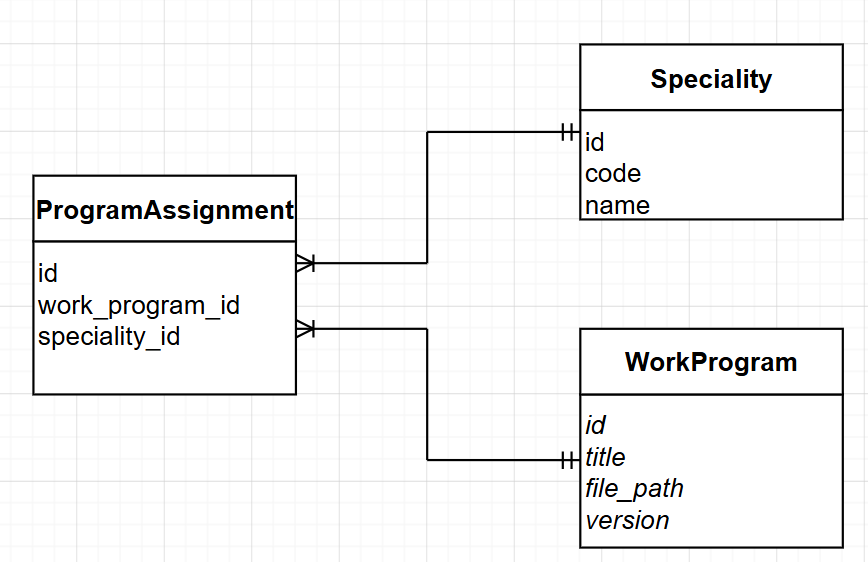
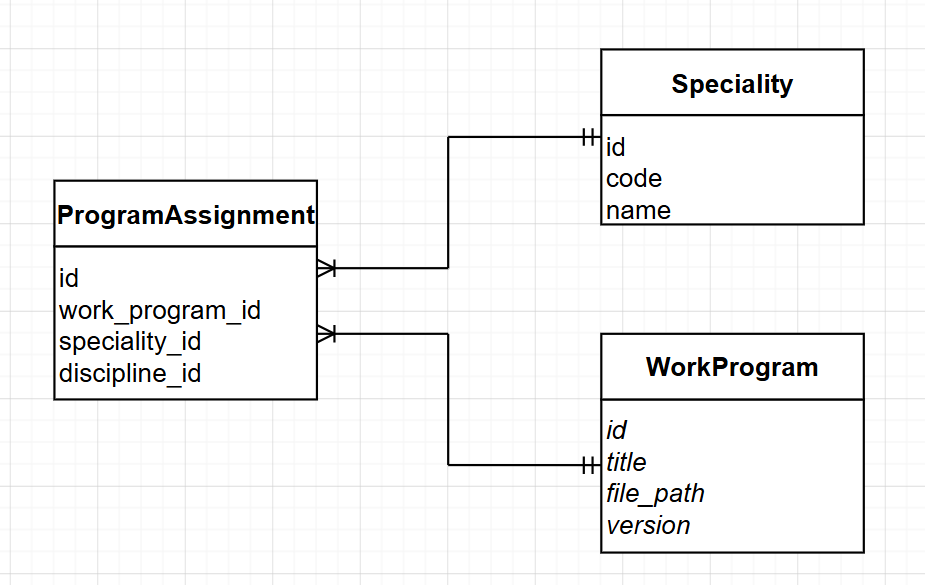
.

Changed region(s): [[0.0311, 0.0605, 0.9954, 0.9982]]

diff --git a/S13/models.py b/S13/models.py
@@ -1,7 +1,6 @@
 from peewee import *
 import datetime
 
-# Подключение к базе данных SQLite
 db = SqliteDatabase('work_programs.db')
 
 class BaseModel(Model):
@@ -9,38 +8,30 @@ class BaseModel(Model):
         database = db
 
 class WorkProgram(BaseModel):
-    """Сущность: Рабочая программа"""
-    title = CharField(null=False)  # Название программы
-    file_path = CharField(null=False)  # Путь к файлу программы
+    title = CharField(null=False)
+    file_path = CharField(null=False)
     version = CharField(null=False, default="1.0")
     created_at = DateTimeField(default=datetime.datetime.now, null=False)
 
 class Specialty(BaseModel):
-    """Сущность: Специальность (из смежного сервиса)"""
-    code = CharField(unique=True, null=False) # Например, '09.02.07'
+    code = CharField(unique=True, null=False)
     name = CharField(null=False)
 
 class ProgramAssignment(BaseModel):
-    """Транзитивная таблица для связи Многие-ко-многим"""
     program = ForeignKeyField(WorkProgram, backref='assignments', null=False)
     specialty = ForeignKeyField(Specialty, backref='programs', null=False)
-    discipline_id = IntegerField(null=False) # ID дисциплины
+    discipline_id = IntegerField(null=False) # То самое поле
 
     class Meta:
-        # Ограничение: нельзя привязать одну и ту же программу к одной специальности дважды
         indexes = (
             (('program', 'specialty', 'discipline_id'), True),
         )
 
 def init_db():
-    """Функция инициализации базы данных"""
     db.connect()
     db.create_tables([WorkProgram, Specialty, ProgramAssignment])
-    print("Сервис рабочих программ: БД инициализирована.")
+    print("БД инициализирована.")
 
 if __name__ == "__main__":
     init_db()
-
-
-
 

diff --git a/S13/doc.md b/S13/doc.md
@@ -93,7 +93,3 @@
 2. В репозитории создана папка S13.
 3. Файл `doc.md` содержит описание функций и структуру данных.
 4. Файл `models.py` содержит модели БД на Peewee и функцию инициализации.
-
-
-
-
